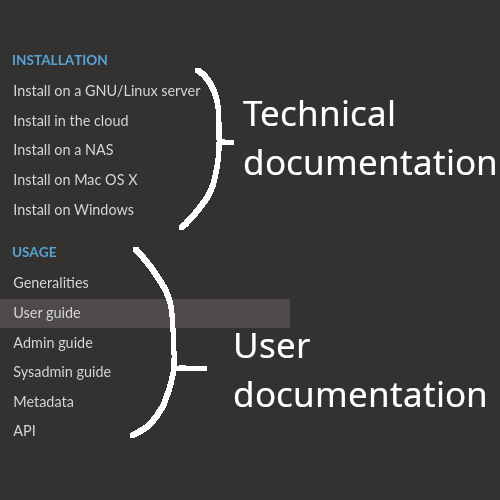
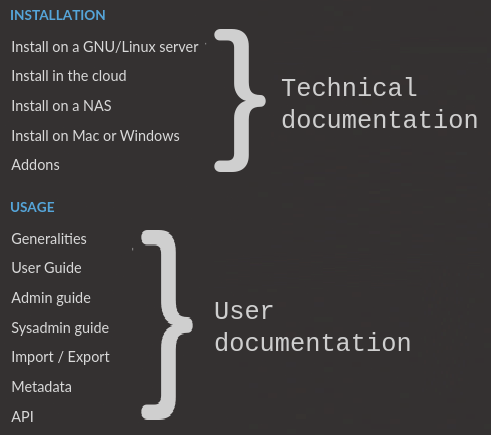
DOC: user-guide: update descriptions, add some assets.
- compound editor help guide
- doc-info.png : update with current setup (Addons, Import/Export) screenshot
- restore an entry : update documentation and asset with description
- tinymce mathjax section: lots of exp from the populate default within <pre> tags, so show how to remove it.
- user-guide.rst : replace image:: tags with figure:: and add description. Harmonize -> all pictures centered and not just some of them, all with descripions. Missing gifs but will come later on! (e.g. Tables gif, tags..). Ref to Addons section, update "restore entry"

diff --git a/doc/user-guide.rst b/doc/user-guide.rst
@@ -83,9 +83,11 @@ Toolbar
 -------
 For both Experiment and Resource entries, the top part of the page displays a toolbar with several available actions, as described below.
 
-.. image:: img/user-view-toolbar.png
-    :align: center
-    :alt: view mode numbered
+.. figure:: img/user-view-toolbar.png
+   :align: center
+   :alt: Viewing an entry
+
+   Viewing an entry
 
 1. Go back
 ^^^^^^^^^^
@@ -111,15 +113,19 @@ The TSA acknowledges the existence of the data and sends back a signed token, wh
 
 The timestamped data and corresponding token are then saved in the "Attached Files" section of the entry as a zip file. This file is initially in an "Archived" state, meaning it is hidden from view by default. To view archived files, click the "Show Archived" button on the right side of the "Uploaded Files" section in edit mode:
 
-.. image:: img/show-archived-uploads.png
-    :align: center
-    :alt: timestamp archive
+.. figure:: img/show-archived-uploads.png
+   :align: center
+   :alt: timestamp archive
+
+   Show archived files
 
 This timestamp archive is immutable and cannot be modified or deleted.
 
-.. image:: img/timestamp-archive.png
-    :align: center
-    :alt: timestamp archive
+.. figure:: img/timestamp-archive.png
+   :align: center
+   :alt: timestamp archive
+
+   The archived zip
 
 
 6. Blockchain timestamp
@@ -129,9 +135,11 @@ This button will perform the same action as a timestamp, except it will use bloc
 7. Export button
 ^^^^^^^^^^^^^^^^
 
-.. image:: img/export-options.png
-    :align: center
-    :alt: view mode export dropdown
+.. figure:: img/export-options.png
+   :align: center
+   :alt: view mode export dropdown
+
+   List of available exports
 
 The Export menu allows you to save the entry in different file formats.
 
@@ -206,6 +214,7 @@ You can list all Experiments with a given Tag by clicking on the Tag or searchin
 .. only:: html
 
     .. image:: img/quick_tags.*
+        :alt: Adding a new tag
 
 Permissions
 -----------
@@ -215,8 +224,11 @@ Main text
 ---------
 This is the space to freely describe your experimental setting, procedure, results, and any other information you wish to include about your research. In this rich text editor, you can add text with various formatting options, create tables, and add images, links, etc…
 
-    .. image:: img/tinymce-editor.png
-       :alt: Tinymce editor
+   .. figure:: img/tinymce-editor.png
+      :align: center
+      :alt: Tinymce editor
+
+      Tinymce editor
 
 Inserting an image
 ^^^^^^^^^^^^^^^^^^
@@ -257,11 +269,17 @@ It is possible to express mathematical/chemical notation in eLabFTW, and formula
 
 To do this, eLabFTW uses Mathjax with the ams extension.
 
-Try this (make sure it is not pasted between `<pre>` Tags!):
+Try the Mathjax expression below (make sure it is not pasted between `<pre>` Tags!):
 
 .. code:: latex
 
     $$\sum_{i=0}^n i^2 = \frac{(n^2+n)(2n+1)}{6}$$
+
+.. figure:: img/tinymce-editor-paragraph.png
+  :align: center
+  :alt: Tinymce editor paragraph
+
+  Change `<pre>` tag into a paragraph.
 
 Use one `$` for inline mode and `$$` for block mode.
 
@@ -488,7 +506,7 @@ Creating a compound manually
 
 Maybe you've just created an never-seen before chemical compound, which means you cannot import it from PubChem. In this case, click the "Add compound" button to manually add a compound. Be aware, as mentioned above, the new compound will be visible by all users of the instance. In case you want to keep it confidential, do not add it.
 
-Creating a compound manually
+Importing compounds manually
 ----------------------------
 
 Look at the :ref:`Import compounds through CLI <compounds-import>` section to learn how to import your compounds from a spreadsheet file or through the API.
@@ -509,12 +527,20 @@ Since version 5.2, a chemical structure editor is present in the Tools menu. It 
 
     Using the editor to draw, import or export molecules
 
+For detailed instructions, click the (?) icon at the top of the editor.
+
+.. figure:: img/compounds-editor-help.png
+    :align: center
+    :alt: compounds editor
+
+    Editor documentation
+
 OpenCloning
 ===========
 
 Since version 5.2, eLabFTW integrates the tool OpenCloning, developed by Manuel Lera Ramirez.
 
-.. note:: To make this tool available in eLabFTW, a specific configuration is required during deployment!
+.. note:: To make this tool available in eLabFTW, a specific configuration is required during deployment! See :ref:`addons` section.
 
 
 .. figure:: img/opencloning.png
@@ -536,7 +562,7 @@ From here you can select a language, adjust the display settings, change the key
 
 Account tab
 -----------
-This page allows you to modify your email/password, activate multi-factor authentication and change your name or add your `ORCID <https://orcid.org/>`_ if you have one.
+This page allows you to modify your email/password, enable multi-factor authentication and change your name or add your `ORCID <https://orcid.org/>`_ if you have one.
 
 What is two factor authentication?
 ----------------------------------
@@ -761,7 +787,7 @@ eLabFTW uses a soft-delete mechanism for entries. When you delete an experiment 
 Restoring a deleted entry
 -------------------------
 
-Currently, only a Sysadmin with MySQL access is able to restore an entry, by changing the State back to 1.
+In previous versions of eLabFTW, only a Sysadmin with MySQL access has the ability to restore an entry, by changing the `state` back to 1.
 
 Example MySQL query to restore an experiment with ID 42:
 
@@ -771,6 +797,13 @@ Example MySQL query to restore an experiment with ID 42:
 
 Values for ``state`` can be found in the `source code <https://github.com/elabftw/elabftw/blob/master/src/Enums/State.php>`_.
 
+As of version 5.2.0, the search page has been moved to the main pages (Experiments / Templates / Resources pages). You can now select the state as a filter and restore an entry by clicking on the Restore button.
+
+.. figure:: img/restore-entry.png
+   :align: center
+   :alt: eLabFTW toolbar
+
+   Filter deleted experiments and restore.
 
 Sharing with external collaborators
 ===================================
